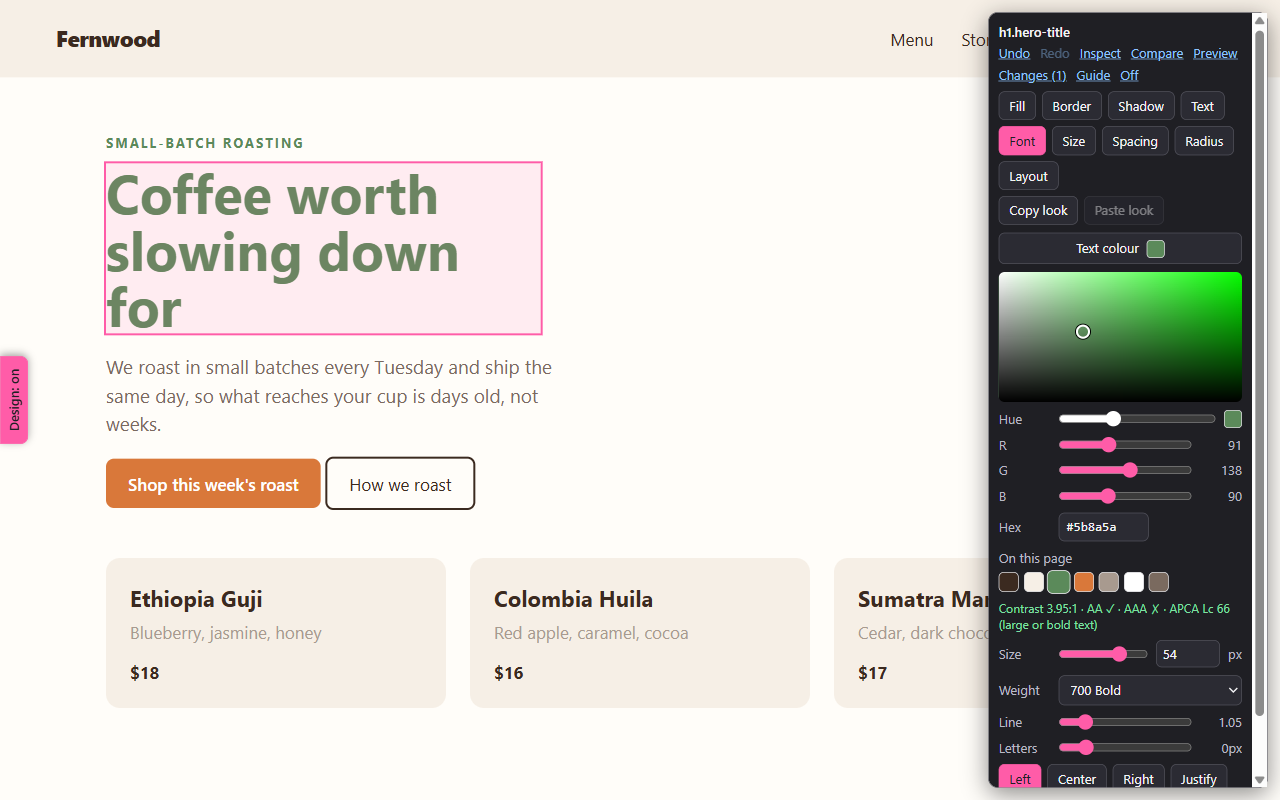
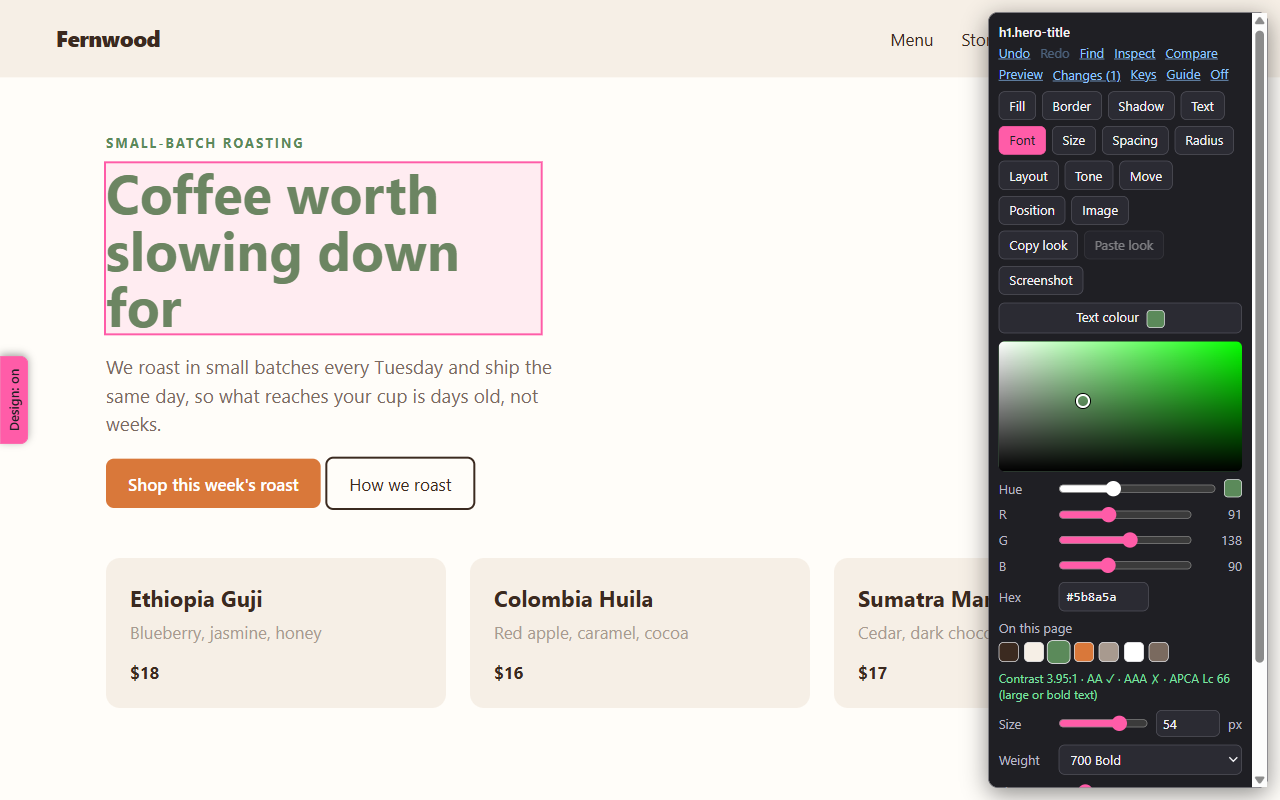
The guide covers everything now (six short pages) and the tools are grouped: how it looks, text and pictures, box and position

diff --git a/src/parts/240-the-guide.js b/src/parts/240-the-guide.js
@@ -1,17 +1,23 @@
   // ---------- the guide ----------
   const TOUR = [
-    { title: "Select an element", lines: [
-      "Alt+Shift+P turns the picker on and off.",
-      "While it is on, clicking an element selects it; the click does not reach the page, so buttons and links do nothing."] },
-    { title: "Move around", lines: [
-      "↑ selects the parent of what you have selected. ↓ goes back down the way you came, or to the first child.",
-      "Shift-click adds elements to the selection (or takes them out): the tools then change all of them at once. Esc clears the selection."] },
-    { title: "Change it", lines: [
-      "Enter opens the tools: Fill (colour), Border (style, thickness, colour), Shadow (presets, or offset, blur, spread, opacity, colour), Text (the words), Font (text colour, size, weight, line height, letter spacing, alignment), Size (width and height, or drag the pink handles), Spacing (padding and margin), Radius (rounded corners), Layout (display, flex and grid alignment and gap, opacity) and Tone (shift hue, saturation and brightness together). Alt+Shift+C copies an element's look and Alt+Shift+V pastes it onto another; hold M to measure distances or G to see what lines up with the selected element, press / to select everything that matches a CSS selector or some words, and press I to inspect what is under the pointer (size, type, colours, WCAG and APCA contrast, accessible name). Fill and Font show the contrast against what is behind the text, and every colour picker lists the colours already on the page. Hold Compare (or the \\ key) to see the original, and Preview opens the page at phone, tablet and laptop sizes.",
-      "Text works only on elements with nothing inside them. The page changes straight away, in this tab only; Done closes the tool. Ctrl+Z undoes a step and Ctrl+Shift+Z (or Ctrl+Y) redoes it."] },
-    { title: "Export your changes", lines: [
-      "Alt+Shift+E copies every change as Markdown. Paste it to Claude, who can then make the same changes in the code.",
-      "\"Changes\" lists them with Copy, Download and Reset. They are kept in this browser, through reloads, until you reset them."] },
+    { title: "Select", lines: [
+      "Alt+Shift+P turns the picker on and off. While it is on, clicking selects an element; the click does not reach the page.",
+      "Shift-click adds elements (or takes them out) and the tools then change all of them. / finds everything that matches a selector or some words. ↑ ↓ go to the parent and child, Tab to the next sibling, Esc clears."] },
+    { title: "Style", lines: [
+      "Enter (or a letter: C fill, B border, D shadow, F font, S size, P spacing, R radius, A layout, H tone) opens a tool. The page changes at once, in this tab only.",
+      "Fill and Font show the contrast against what is behind the text, WCAG and APCA. With a tool open, the arrow keys nudge: Shift for ten, Alt the other way."] },
+    { title: "Edit the page itself", lines: [
+      "Delete removes elements, Ctrl+D duplicates, Ctrl+C / X / V copy, cut and paste them, Ctrl+G groups. Double-click text to retype it. Drop an image file on a picture to replace it.",
+      "V moves elements through the page (arrows, or drag a sibling to reorder them). L places them anywhere. Everything here is undone with Ctrl+Z like the rest."] },
+    { title: "Look closely", lines: [
+      "I inspects whatever is under the pointer: size, type, colours, contrast, and the name a screen reader would give it. Hold M to measure distances, G to see what lines up, \\ to see the original.",
+      "Preview opens the page at phone, tablet and laptop sizes. Alt+Shift+S saves a screenshot of the selection."] },
+    { title: "Hand it over", lines: [
+      "Alt+Shift+E copies every change as Markdown: style changes with before and after, and the structure changes in order. Paste it to a developer, or to Claude, who can make the same changes in the code.",
+      "\"Changes\" lists them with Copy, Download and Reset all. They are kept in this browser, through reloads, until you reset them."] },
+    { title: "Every shortcut", lines: [
+      "? (or Keys) lists every shortcut, grouped.",
+      "Guide, at any time, shows these pages again."] },
   ];
   function endTour() {
     tourStep = null;
@@ -81,8 +87,9 @@
       h("button", { type: "button", class: "dz-menu-button", text: "Screenshot", disabled: !host.capture, title: host.capture ? "Save a PNG of the selected elements, or of the page if nothing is selected (Alt+Shift+S)" : "Screenshots need the Chrome extension",
                     onclick: () => takeScreenshot() }));
     const tools = () => h("div", { class: "dz-tools" }, h("div", { class: "dz-menu" },
-      menuButton("fill", "Fill"), menuButton("border", "Border"), menuButton("shadow", "Shadow"), menuButton("text", "Text"), menuButton("font", "Font"),
-      menuButton("size", "Size"), menuButton("spacing", "Spacing"), menuButton("radius", "Radius"), menuButton("layout", "Layout"), menuButton("tone", "Tone"), menuButton("move", "Move"), menuButton("position", "Position"), menuButton("image", "Image")), lookRow());
+      menuButton("fill", "Fill"), menuButton("border", "Border"), menuButton("shadow", "Shadow"), menuButton("radius", "Radius"), menuButton("tone", "Tone"),
+      menuButton("text", "Text"), menuButton("font", "Font"), menuButton("image", "Image"),
+      menuButton("size", "Size"), menuButton("spacing", "Spacing"), menuButton("layout", "Layout"), menuButton("position", "Position"), menuButton("move", "Move")), lookRow());
     if (!menuOpen && !tool) {
       dock.append(h("p", { class: "dz-hint", text: "Press Enter, or choose a tool." }), tools());
       return;
